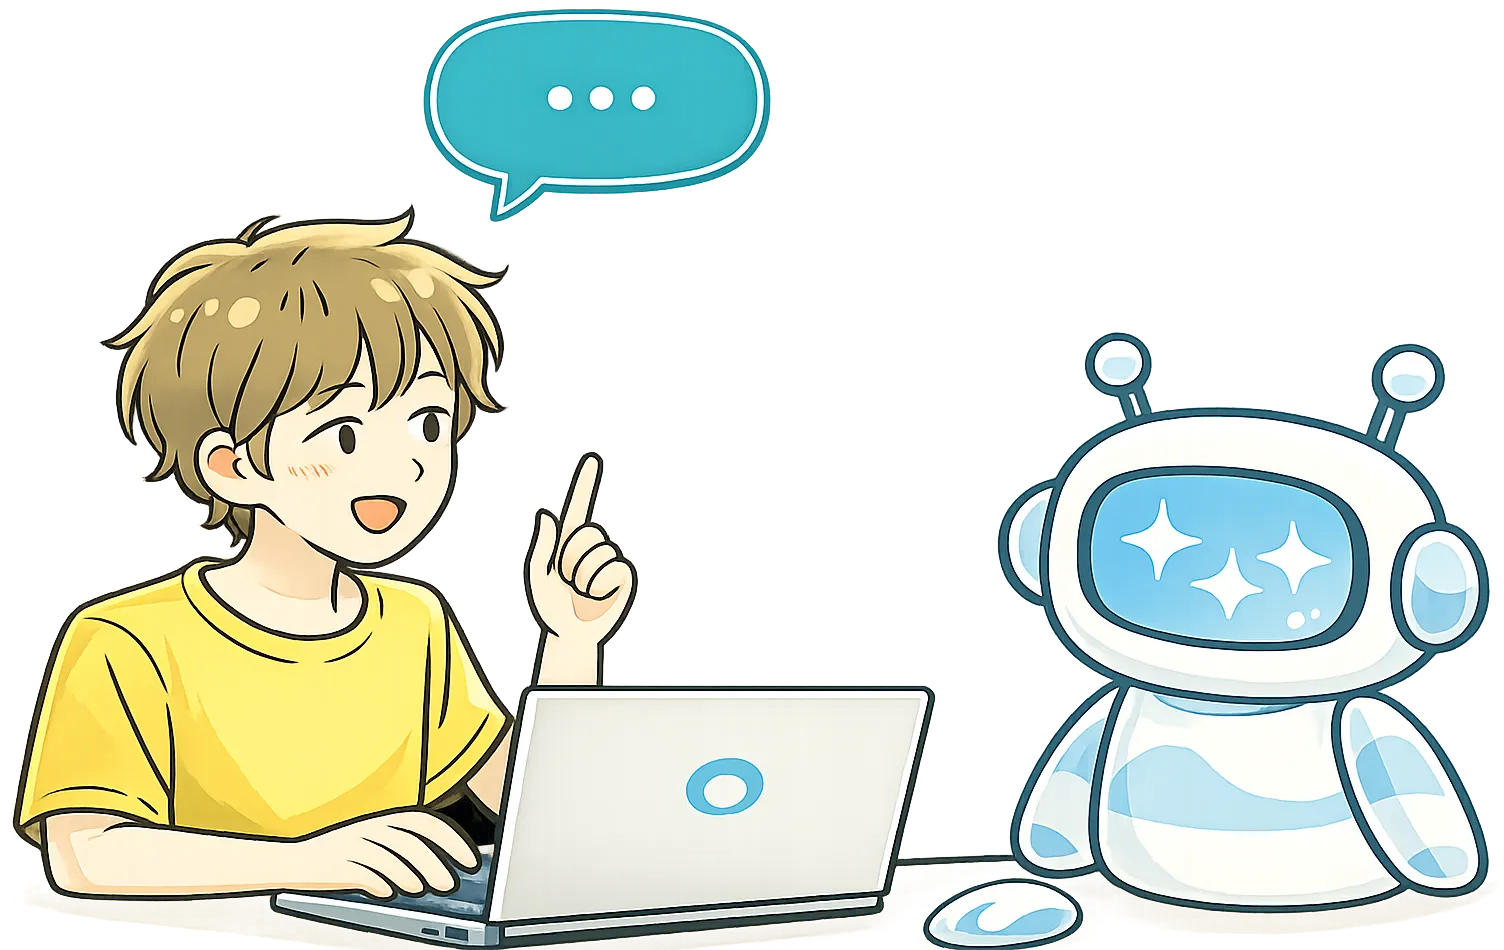
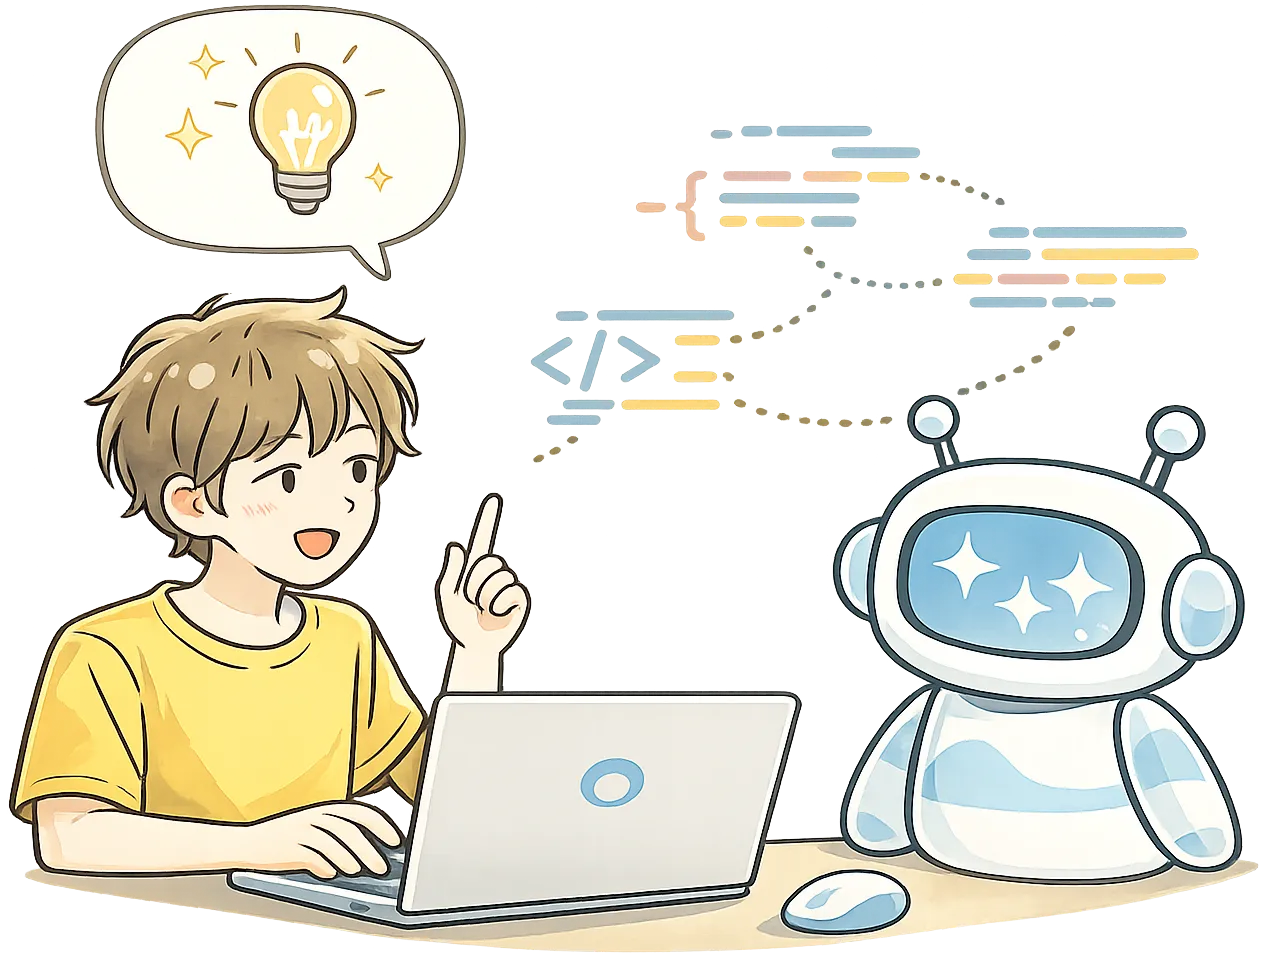
完成！

diff --git a/style.css b/style.css
@@ -30,6 +30,11 @@ p {
   margin-bottom: 16px;
 }
 
+img {
+  max-width: 100%;
+  height: auto;
+}
+
 .font-15 {
   font-size: 0.95rem;
 }
@@ -49,7 +54,7 @@ a:not(.btn):hover {
   position: relative;
   margin: 0;
   text-align: center;
-  padding: 20px 20px 50px;
+  padding: 20px 20px 40px;
 }
 
 .hero::before {
@@ -57,7 +62,7 @@ a:not(.btn):hover {
   position: absolute;
   inset: 0;
 
-  background: linear-gradient(120deg, #d4ecff, #ffffff);
+  background: linear-gradient(120deg, #95bcda, #ffffff);
   clip-path: circle(0% at 50% 50%);
   transition: clip-path 0.8s ease-out;
 
@@ -67,11 +72,6 @@ a:not(.btn):hover {
 .hero.bg-expand::before {
   clip-path: circle(100% at 50% 50%);
 }
-
-/* .hero > * {
-  position: relative;
-  z-index: 1;
-} */
 
 .hero-inner {
   max-width: 900px;
@@ -85,6 +85,8 @@ a:not(.btn):hover {
   max-width: 40vw;
   height: auto;
   margin-bottom: 32px;
+  position: relative;
+  z-index: 10;
 }
 
 @media (max-width: 600px) {
@@ -92,6 +94,36 @@ a:not(.btn):hover {
     width: 120px;
     margin-bottom: 24px;
   }
+}
+
+#hero-picture {
+  position: relative;
+  display: inline-block;
+}
+
+/* hero_picture の背景 */
+#hero-picture.show::after {
+  content: "";
+  position: absolute;
+  inset: -200px;
+
+  background-image: url("images/hero_back.webp");
+  background-size: contain;
+  background-repeat: no-repeat;
+  background-position: center;
+
+  z-index: 1;
+  opacity: 0.9;
+
+  /* 少し遊びを入れるなら */
+  transform: scale(1.05);
+}
+
+/* 前面の画像 */
+#hero-picture img {
+  position: relative;
+  z-index: 2;
+  display: block;
 }
 
 .hero h1 {
@@ -419,7 +451,7 @@ a:not(.btn):hover {
   content: "";
   position: absolute;
   top: 12px;
-  left: -16px;
+  left: 0px;
 
   width: 100%;
   height: 100%;

diff --git a/index.html b/index.html
@@ -16,6 +16,11 @@
     <div class="hero-inner">
       <img src="images/logo.png" alt="つくラボ ロゴ" class="hero-logo">
 
+      <picture id="hero-picture">
+        <source srcset="images/hero1.webp" type="image/webp">
+        <img src="images/hero1.png" class="img-center" style="width: 360px;" alt="つくラボ ヒーロー画像">
+      </picture>
+
       <h1 class="hero-title">
         <span id="typing-text"></span><br>
         <span id="sub-text"></span>
@@ -283,7 +288,7 @@
         
           <p class="font-15">
             でも実は、作れないのではなく、<br>
-            <strong>作ったことがないだけ</strong>かもしれません。
+            <strong>作り方を知らないだけ</strong>かもしれません。
           </p>
         
           <p class="font-15">

diff --git a/script.js b/script.js
@@ -32,6 +32,7 @@ const typingTarget = document.getElementById("typing-text");
 const subText = document.getElementById("sub-text");
 const cursor = document.querySelector(".cursor");
 const hero = document.querySelector('.hero');
+const heroPicture = document.getElementById("hero-picture");
 
 let index = 0;
 let subIndex = 0;
@@ -84,6 +85,13 @@ function typeSub() {
     setTimeout(() => {
       cursor.style.display = "none";
       hero.classList.add('bg-expand');
+
+      // 画像差し替え
+      const source = heroPicture.querySelector("source");
+      const img = heroPicture.querySelector("img");
+      source.srcset = "images/hero2.webp";
+      img.src = "images/hero2.png";
+      heroPicture.classList.add("show");
     }, 800);
   }
 }
